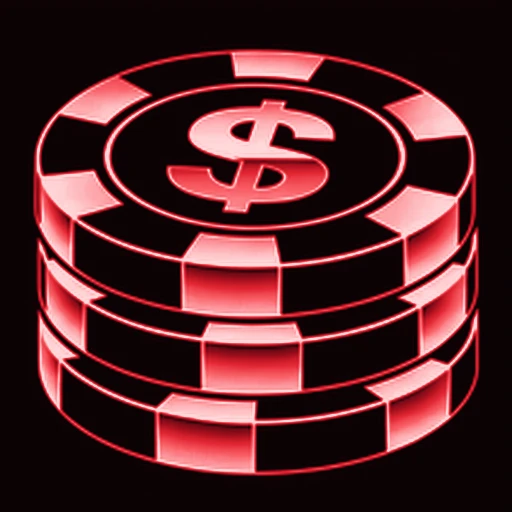
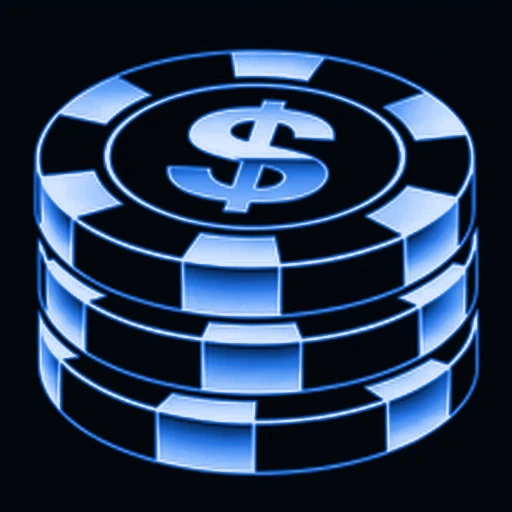
Poker Luxe: payout rebalance + feature retune to 1-in-35 combined (FS 1/68.2, wheel 1/69.4) + poker chips recolored red to electric blue (sym-cg); SW v9

diff --git a/test-bench/hustle-city-slots-luxe/machines.js b/test-bench/hustle-city-slots-luxe/machines.js
@@ -14,7 +14,32 @@
    MATH (Joshua's settled target, 2026-11-21): total RTP 98% — exact
    closed form including wheels landed during free spins; verified
    breakdown and Monte Carlo in sim/sim-results.txt.
-   (c) 2026 J-Dawgs Industries. */
+   (c) 2026 J-Dawgs Industries.
+   PAYOUT REBALANCE (2026-11-21, Joshua's ruling from real play: "They need
+   to pay out better on individual spins") — BASE GAME ONLY: 3/4-of-a-kind
+   pays x1.75, pairs x1.5 (5-of-a-kind untouched), reel weights shifted
+   toward the common symbols (WD/SC/BN/X2/X3 keep their exact stops, so
+   the free-spin and wheel geometry is unchanged: FS 1 in 39.6, wheel
+   1 in 40.7, wheel EV 12.08x total bet — all as settled). Measured after:
+   line RTP 74.68%, base-game share 115.96%, TOTAL theoretical RTP 152.28%
+   (Monte Carlo 153.83% over 200k paid spins) — deliberately above the old
+   98% design point; these are play credits and the owner's feel ruling
+   governs. Net-positive base spins 11.2% -> 28.2%; average line win per
+   hit 14.1 -> 24.7 credits at 1/line.
+   FEATURE RETUNE (2026-11-21 21:47 CT, Joshua's ruling: "one in 35 spins
+   to be one of the random bonuses — free spins or a bonus"): strips
+   lengthened with regular symbols only (25/24/25/25/25 stops; every
+   special keeps its count, position and window coverage), superseding
+   the 'geometry unchanged' line above for FREQUENCIES only — wheel
+   wedges and EV untouched (12.08x). Exact: free spins 1 in 68.2, wheel
+   1 in 69.4, COMBINED 1 in 35.0. Final measured base game after both
+   passes: line RTP 79.54%, base-game share 102.23%, TOTAL theoretical
+   RTP 121.68% (Monte Carlo 121.92% over 200k paid spins); net-positive
+   base spins 29.5%; average line win per hit 23.1 credits at 1/line.
+   CHIP RECOLOR (2026-11-21 21:49 CT, Joshua's ruling "turn the chips
+   blue"): the poker-chip stack art (assets/sym-cg.webp) recolored red
+   -> electric blue. The WILD dollar coin, the SCATTER skull word and
+   the cabinet's red LED readouts stay RED by his earlier ruling. */
 'use strict';
 
 const LUXE = {
@@ -27,22 +52,22 @@ const LUXE = {
      0 = BANKRUPT (one wedge), 100 = JACKPOT. EV = 145/12 ≈ 12.08x bet. */
   wheel: [100, 5, 7, 2, 4, 8, 0, 3, 6, 1, 5, 4],
   paytable: {
-    AC: { 3: 26, 4: 83, 5: 1500 },
-    WD: { 3: 15, 4: 49, 5: 338 },
-    KG: { 3: 9, 4: 38, 5: 225 },
-    DM: { 3: 6, 4: 19, 5: 90 },
-    QN: { 3: 4, 4: 11, 5: 41 },
-    CG: { 3: 3, 4: 8, 5: 34 },
-    JK: { 3: 2, 4: 7, 5: 26 },
-    DK: { 3: 2, 4: 6, 5: 23 },
-    CP: { 2: 2, 3: 2, 4: 6, 5: 21 }
+    AC: { 3: 46, 4: 145, 5: 1500 },
+    WD: { 3: 26, 4: 86, 5: 338 },
+    KG: { 3: 16, 4: 67, 5: 225 },
+    DM: { 3: 11, 4: 33, 5: 90 },
+    QN: { 3: 7, 4: 19, 5: 41 },
+    CG: { 3: 5, 4: 14, 5: 34 },
+    JK: { 3: 4, 4: 12, 5: 26 },
+    DK: { 3: 4, 4: 11, 5: 23 },
+    CP: { 2: 3, 3: 4, 4: 11, 5: 21 }
   },
   strips: [
-    ['JK', 'CP', 'DM', 'CP', 'CG', 'KG', 'JK', 'CG', 'CP', 'WD', 'X2', 'SC', 'AC', 'KG', 'CG', 'QN', 'JK', 'DK', 'CP', 'DM'],
-    ['JK', 'SC', 'CP', 'CG', 'CP', 'JK', 'AC', 'QN', 'CG', 'BN', 'JK', 'X3', 'CP', 'KG', 'CP', 'DM', 'WD', 'CG', 'DM', 'BN'],
-    ['JK', 'KG', 'DM', 'JK', 'KG', 'AC', 'CG', 'X2', 'BN', 'SC', 'CP', 'CG', 'QN', 'CG', 'JK', 'WD', 'DK', 'CP', 'DM', 'CP', 'BN', 'CP'],
-    ['CG', 'DM', 'WD', 'X2', 'AC', 'JK', 'KG', 'CP', 'BN', 'CP', 'KG', 'QN', 'CP', 'JK', 'CG', 'QN', 'DM', 'WD', 'SC', 'BN'],
-    ['QN', 'CP', 'CG', 'KG', 'JK', 'WD', 'DM', 'KG', 'JK', 'CP', 'X2', 'CP', 'DM', 'CG', 'CP', 'SC', 'JK', 'DK', 'AC', 'CG']
+    ['JK', 'CP', 'CP', 'CP', 'CG', 'CG', 'JK', 'CG', 'CP', 'WD', 'X2', 'SC', 'AC', 'KG', 'CG', 'JK', 'JK', 'DK', 'CP', 'DM', 'CP', 'AC', 'JK', 'CG', 'CP'],
+    ['JK', 'SC', 'CP', 'CG', 'CP', 'JK', 'CP', 'JK', 'CG', 'BN', 'JK', 'X3', 'CP', 'KG', 'CP', 'CP', 'WD', 'CG', 'DM', 'BN', 'CP', 'CG', 'JK', 'CP'],
+    ['JK', 'KG', 'DM', 'JK', 'CG', 'CP', 'CG', 'X2', 'BN', 'SC', 'CP', 'CG', 'JK', 'CG', 'JK', 'WD', 'DK', 'CP', 'DM', 'CP', 'BN', 'CP', 'CP', 'JK', 'CG'],
+    ['CG', 'DM', 'WD', 'X2', 'CP', 'JK', 'KG', 'CP', 'BN', 'CP', 'JK', 'QN', 'CP', 'JK', 'CG', 'QN', 'CG', 'WD', 'SC', 'BN', 'CP', 'QN', 'CG', 'JK', 'CP'],
+    ['CP', 'CP', 'CG', 'KG', 'JK', 'WD', 'DM', 'JK', 'JK', 'CP', 'X2', 'CP', 'CG', 'CG', 'CP', 'SC', 'JK', 'DK', 'AC', 'CG', 'CP', 'KG', 'CG', 'JK', 'CP']
   ]
 };
 

diff --git a/test-bench/hustle-city-slots-luxe/sw.js b/test-bench/hustle-city-slots-luxe/sw.js
@@ -1,5 +1,5 @@
 /* Hustle City Slots — Poker Luxe service worker. (c) 2026 J-Dawgs Industries. */
-const CACHE = 'hc-slots-luxe-v8';
+const CACHE = 'hc-slots-luxe-v9';
 const ASSETS = [
   './', './index.html', './style.css', './game.js', './logic.js', './machines.js', './soundkit.js', './cabinet-life.js',
   './assets/sfx/bell.mp3', './assets/sfx/win-small.mp3', './assets/sfx/win-med.mp3',
